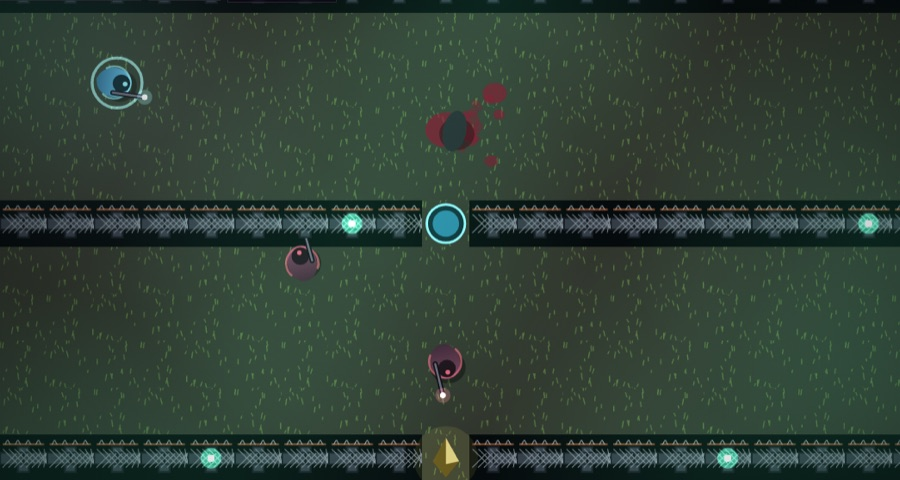
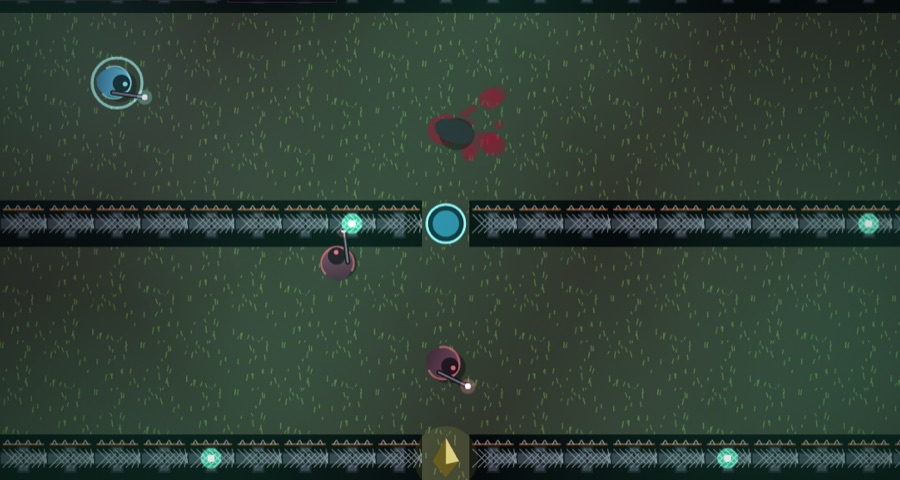
Watch the loops age too, and re-shoot three frames that already had
A loop goes stale the way a frame does, only faster: a frame shows what
a game looks like, a loop shows what its rules do. ТехноМагия changed
its rules three times in one evening — the shield, the doors, the wind
— so a loop recorded an hour earlier can stop being true while the art
it was cut from is still fine.

The freshness check now reports both, on one line per game. Its first
run earned its keep immediately: three frames were shot at 10:51 and
their games had gone on committing until 12:23, 13:25 and 20:05. The
loops from 20:19 were current; the posters behind them were not.

Re-shot, and the check is quiet on those three now. It still warns
softly and exits zero — it compares dates, not pictures, and a commit
about sound moves no pixels.

Changed region(s): [[0.4667, 0.1562, 0.56, 0.3438], [0.3111, 0.4688, 0.4044, 0.5938], [0.4667, 0.7188, 0.5289, 0.8438]]

diff --git a/index.html b/index.html
@@ -548,7 +548,7 @@
           </div>
         </a>
         <a class="gcard" data-art="chain" href="/worm/" data-umami-event="game-open" data-umami-event-game="worm">
-          <span class="gart" aria-hidden="true"><img class="gshot" src="/assets/shots/game-worm.jpg?v=9603ceab" alt=""
+          <span class="gart" aria-hidden="true"><img class="gshot" src="/assets/shots/game-worm.jpg?v=1733e5a6" alt=""
                 width="900" height="497" decoding="async" loading="lazy"><video class="gclip" muted loop playsinline preload="none" tabindex="-1"
                 data-src="/assets/clips/clip-worm.mp4?v=bf3cc18d"></video></span>
           <div class="gcard-body">
@@ -570,7 +570,7 @@
           </div>
         </a>
         <a class="gcard" data-art="elements" href="/technomagic/" data-umami-event="game-open" data-umami-event-game="technomagic">
-          <span class="gart" aria-hidden="true"><img class="gshot" src="/assets/shots/game-technomagic.jpg?v=10e774e1" alt=""
+          <span class="gart" aria-hidden="true"><img class="gshot" src="/assets/shots/game-technomagic.jpg?v=ede5d6a4" alt=""
                 width="900" height="480" decoding="async" loading="lazy"><video class="gclip" muted loop playsinline preload="none" tabindex="-1"
                 data-src="/assets/clips/clip-technomagic.mp4?v=33bdc45c"></video></span>
           <div class="gcard-body">
